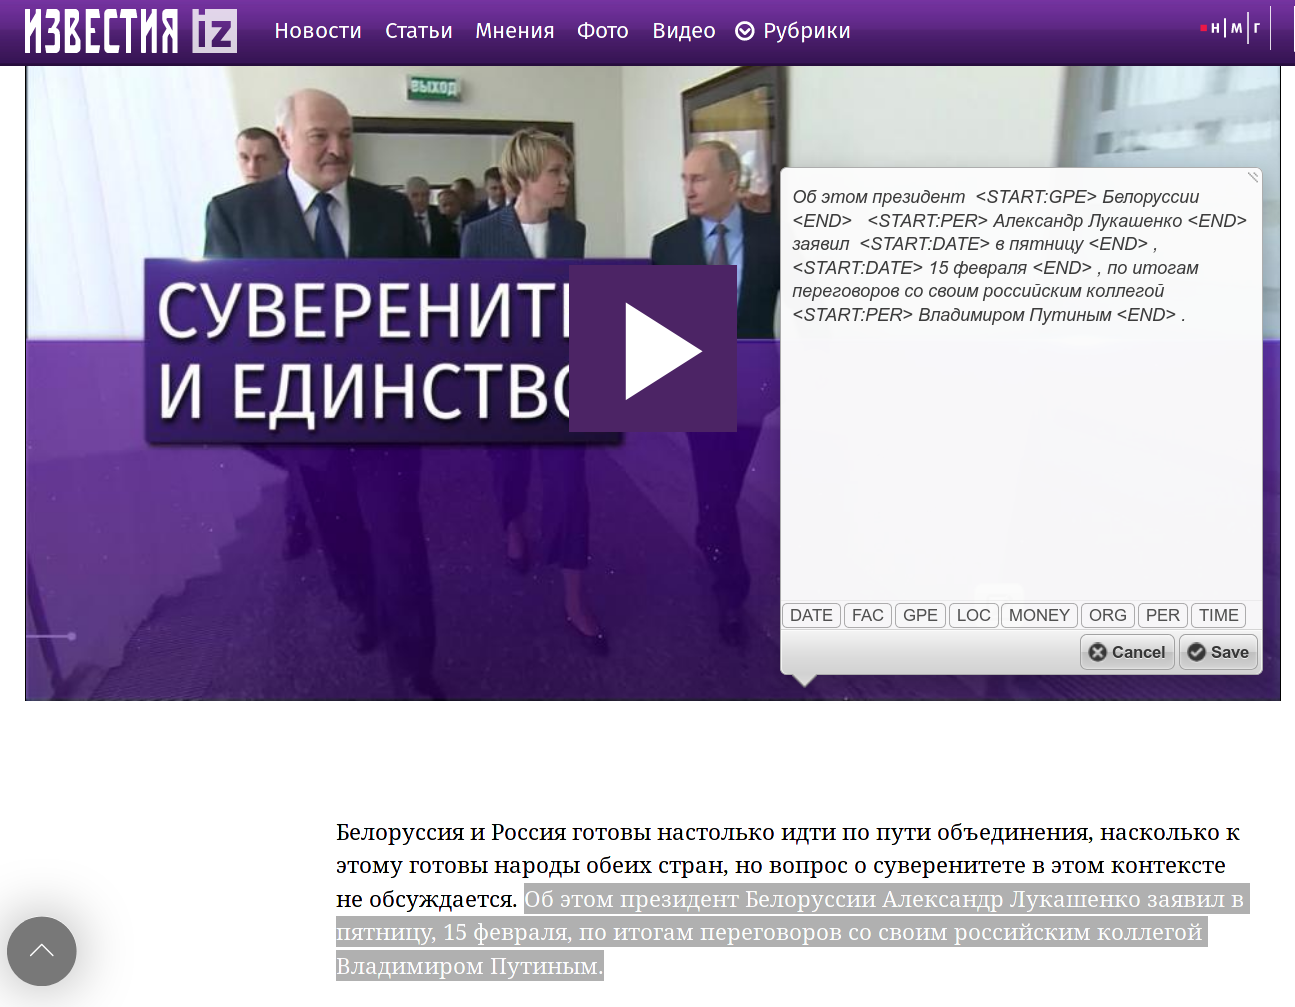
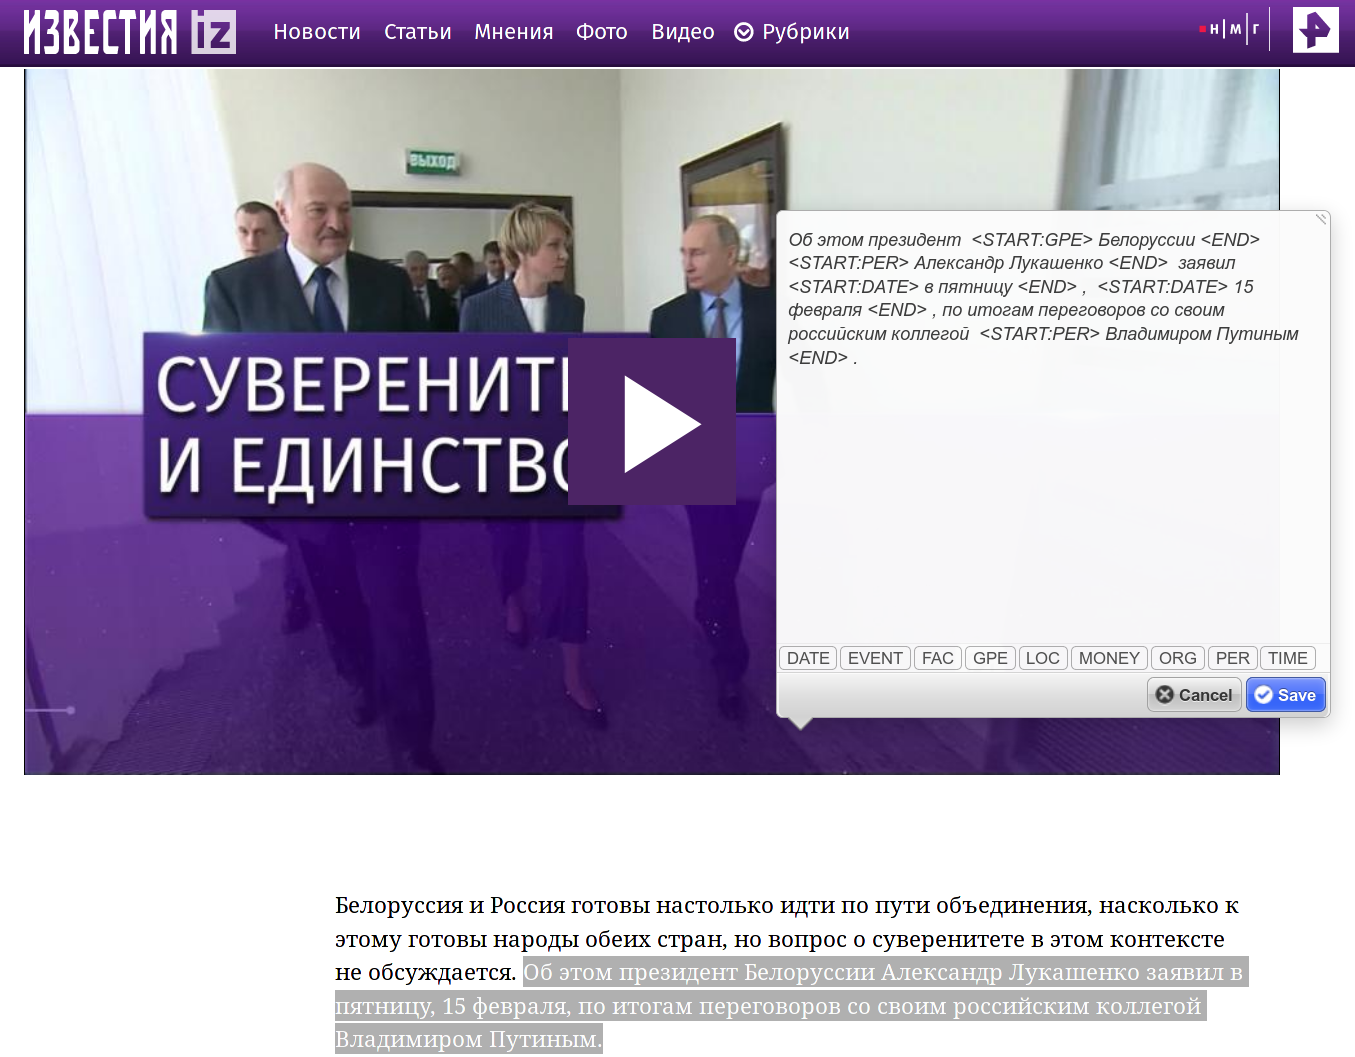
Bump to 0.0.9, add EVENT tag.

diff --git a/js/ner-tagger.js b/js/ner-tagger.js
@@ -49,26 +49,28 @@ var nertagger = {
         field.element = element[0];
 
         var button1 = $('<button id="ner-btn1" type="button" class="ner-tagger" style="padding: 1px 5px; margin: 1px">DATE</button>');
-        var button2 = $('<button id="ner-btn2" type="button" class="ner-tagger" style="padding: 1px 5px; margin: 1px">FAC</button>');
-        var button3 = $('<button id="ner-btn3" type="button" class="ner-tagger" style="padding: 1px 5px; margin: 1px">GPE</button>');
-        var button4 = $('<button id="ner-btn4" type="button" class="ner-tagger" style="padding: 1px 5px; margin: 1px">LOC</button>');
-        var button5 = $('<button id="ner-btn5" type="button" class="ner-tagger" style="padding: 1px 5px; margin: 1px">MONEY</button>');
-        var button6 = $('<button id="ner-btn6" type="button" class="ner-tagger" style="padding: 1px 5px; margin: 1px">ORG</button>');
-        var button7 = $('<button id="ner-btn7" type="button" class="ner-tagger" style="padding: 1px 5px; margin: 1px">PER</button>');
-        var button8 = $('<button id="ner-btn8" type="button" class="ner-tagger" style="padding: 1px 5px; margin: 1px">TIME</button>');
+        var button2 = $('<button id="ner-btn2" type="button" class="ner-tagger" style="padding: 1px 5px; margin: 1px">EVENT</button>');
+        var button3 = $('<button id="ner-btn3" type="button" class="ner-tagger" style="padding: 1px 5px; margin: 1px">FAC</button>');
+        var button4 = $('<button id="ner-btn4" type="button" class="ner-tagger" style="padding: 1px 5px; margin: 1px">GPE</button>');
+        var button5 = $('<button id="ner-btn5" type="button" class="ner-tagger" style="padding: 1px 5px; margin: 1px">LOC</button>');
+        var button6 = $('<button id="ner-btn6" type="button" class="ner-tagger" style="padding: 1px 5px; margin: 1px">MONEY</button>');
+        var button7 = $('<button id="ner-btn7" type="button" class="ner-tagger" style="padding: 1px 5px; margin: 1px">ORG</button>');
+        var button8 = $('<button id="ner-btn8" type="button" class="ner-tagger" style="padding: 1px 5px; margin: 1px">PER</button>');
+        var button9 = $('<button id="ner-btn9" type="button" class="ner-tagger" style="padding: 1px 5px; margin: 1px">TIME</button>');
 
-        element.append(button1,button2,button3,button4,button5,button6,button7,button8);
+        element.append(button1,button2,button3,button4,button5,button6,button7,button8,button9);
 
         // Chrome secuirty doesn't allow to use 'onClick'
         $(document).ready(function() {
             $("#ner-btn1").click({name: "DATE"}, nertagger.wrapTag);
-            $("#ner-btn2").click({name: "FAC"}, nertagger.wrapTag);
-            $("#ner-btn3").click({name: "GPE"}, nertagger.wrapTag);
-            $("#ner-btn4").click({name: "LOC"}, nertagger.wrapTag);
-            $("#ner-btn5").click({name: "MONEY"}, nertagger.wrapTag);
-            $("#ner-btn6").click({name: "ORG"}, nertagger.wrapTag);
-            $("#ner-btn7").click({name: "PER"}, nertagger.wrapTag);
-            $("#ner-btn8").click({name: "TIME"}, nertagger.wrapTag);
+            $("#ner-btn2").click({name: "EVENT"}, nertagger.wrapTag);
+            $("#ner-btn3").click({name: "FAC"}, nertagger.wrapTag);
+            $("#ner-btn4").click({name: "GPE"}, nertagger.wrapTag);
+            $("#ner-btn5").click({name: "LOC"}, nertagger.wrapTag);
+            $("#ner-btn6").click({name: "MONEY"}, nertagger.wrapTag);
+            $("#ner-btn7").click({name: "ORG"}, nertagger.wrapTag);
+            $("#ner-btn8").click({name: "PER"}, nertagger.wrapTag);
+            $("#ner-btn9").click({name: "TIME"}, nertagger.wrapTag);
         });
 
         this.element.find('ul:first').append(element);
@@ -83,7 +85,7 @@ var nertagger = {
         //this.element.find('textarea:first').css('font-size', '11px');
 
         // Set width of the main window
-        this.element.find('.annotator-widget').css('min-width', '344px');
+        this.element.find('.annotator-widget').css('min-width', '396px');
         this.element.find('textarea:first').css('height', '310px');
 
         // Call original editor.show function
